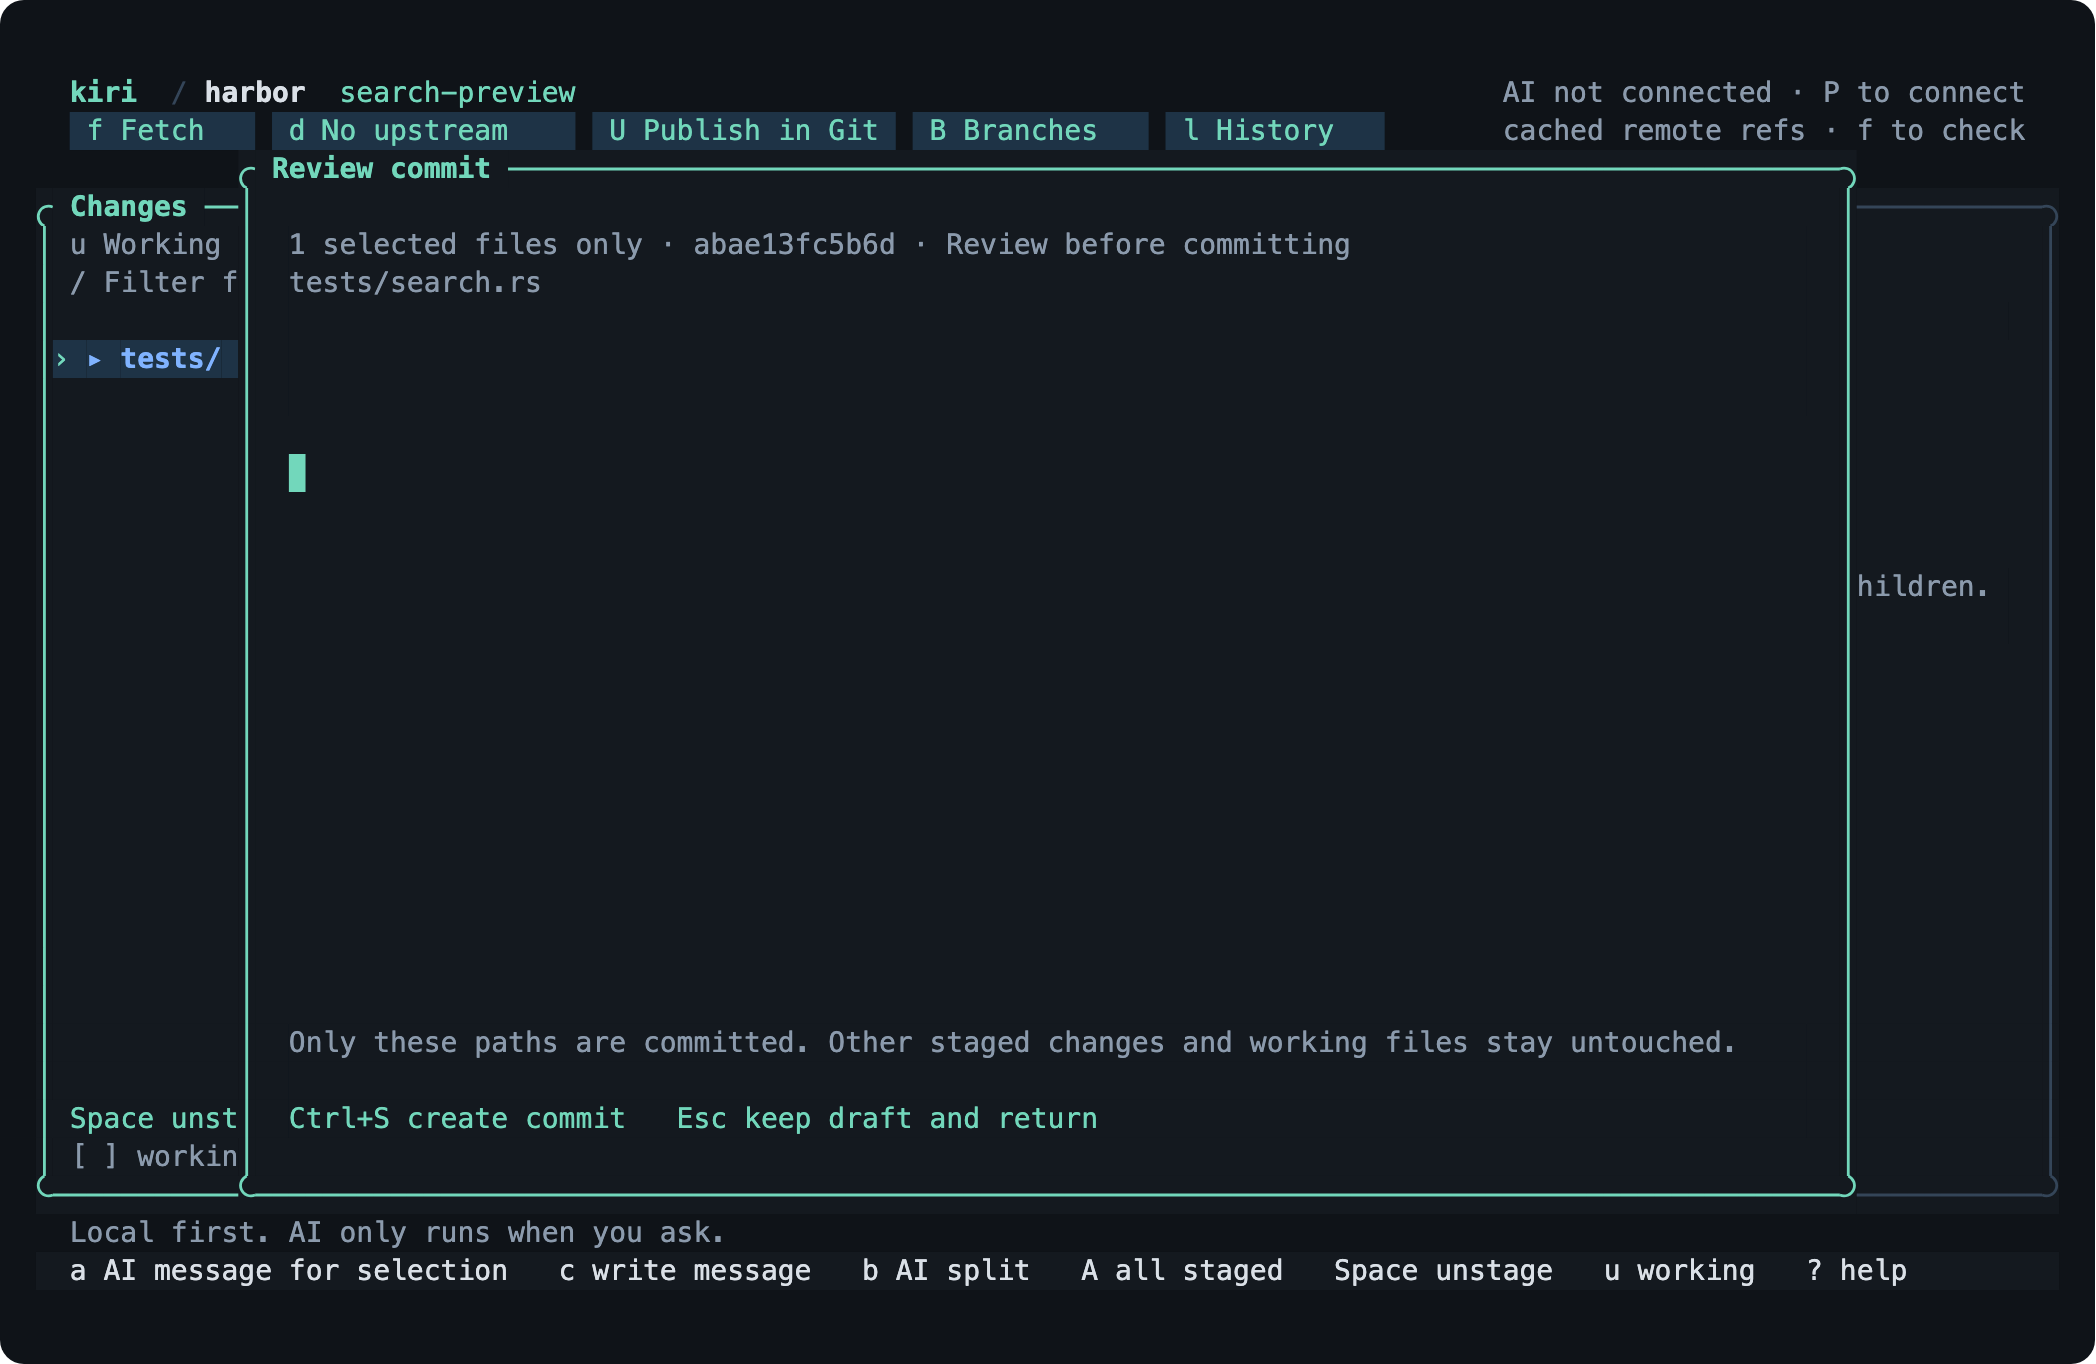
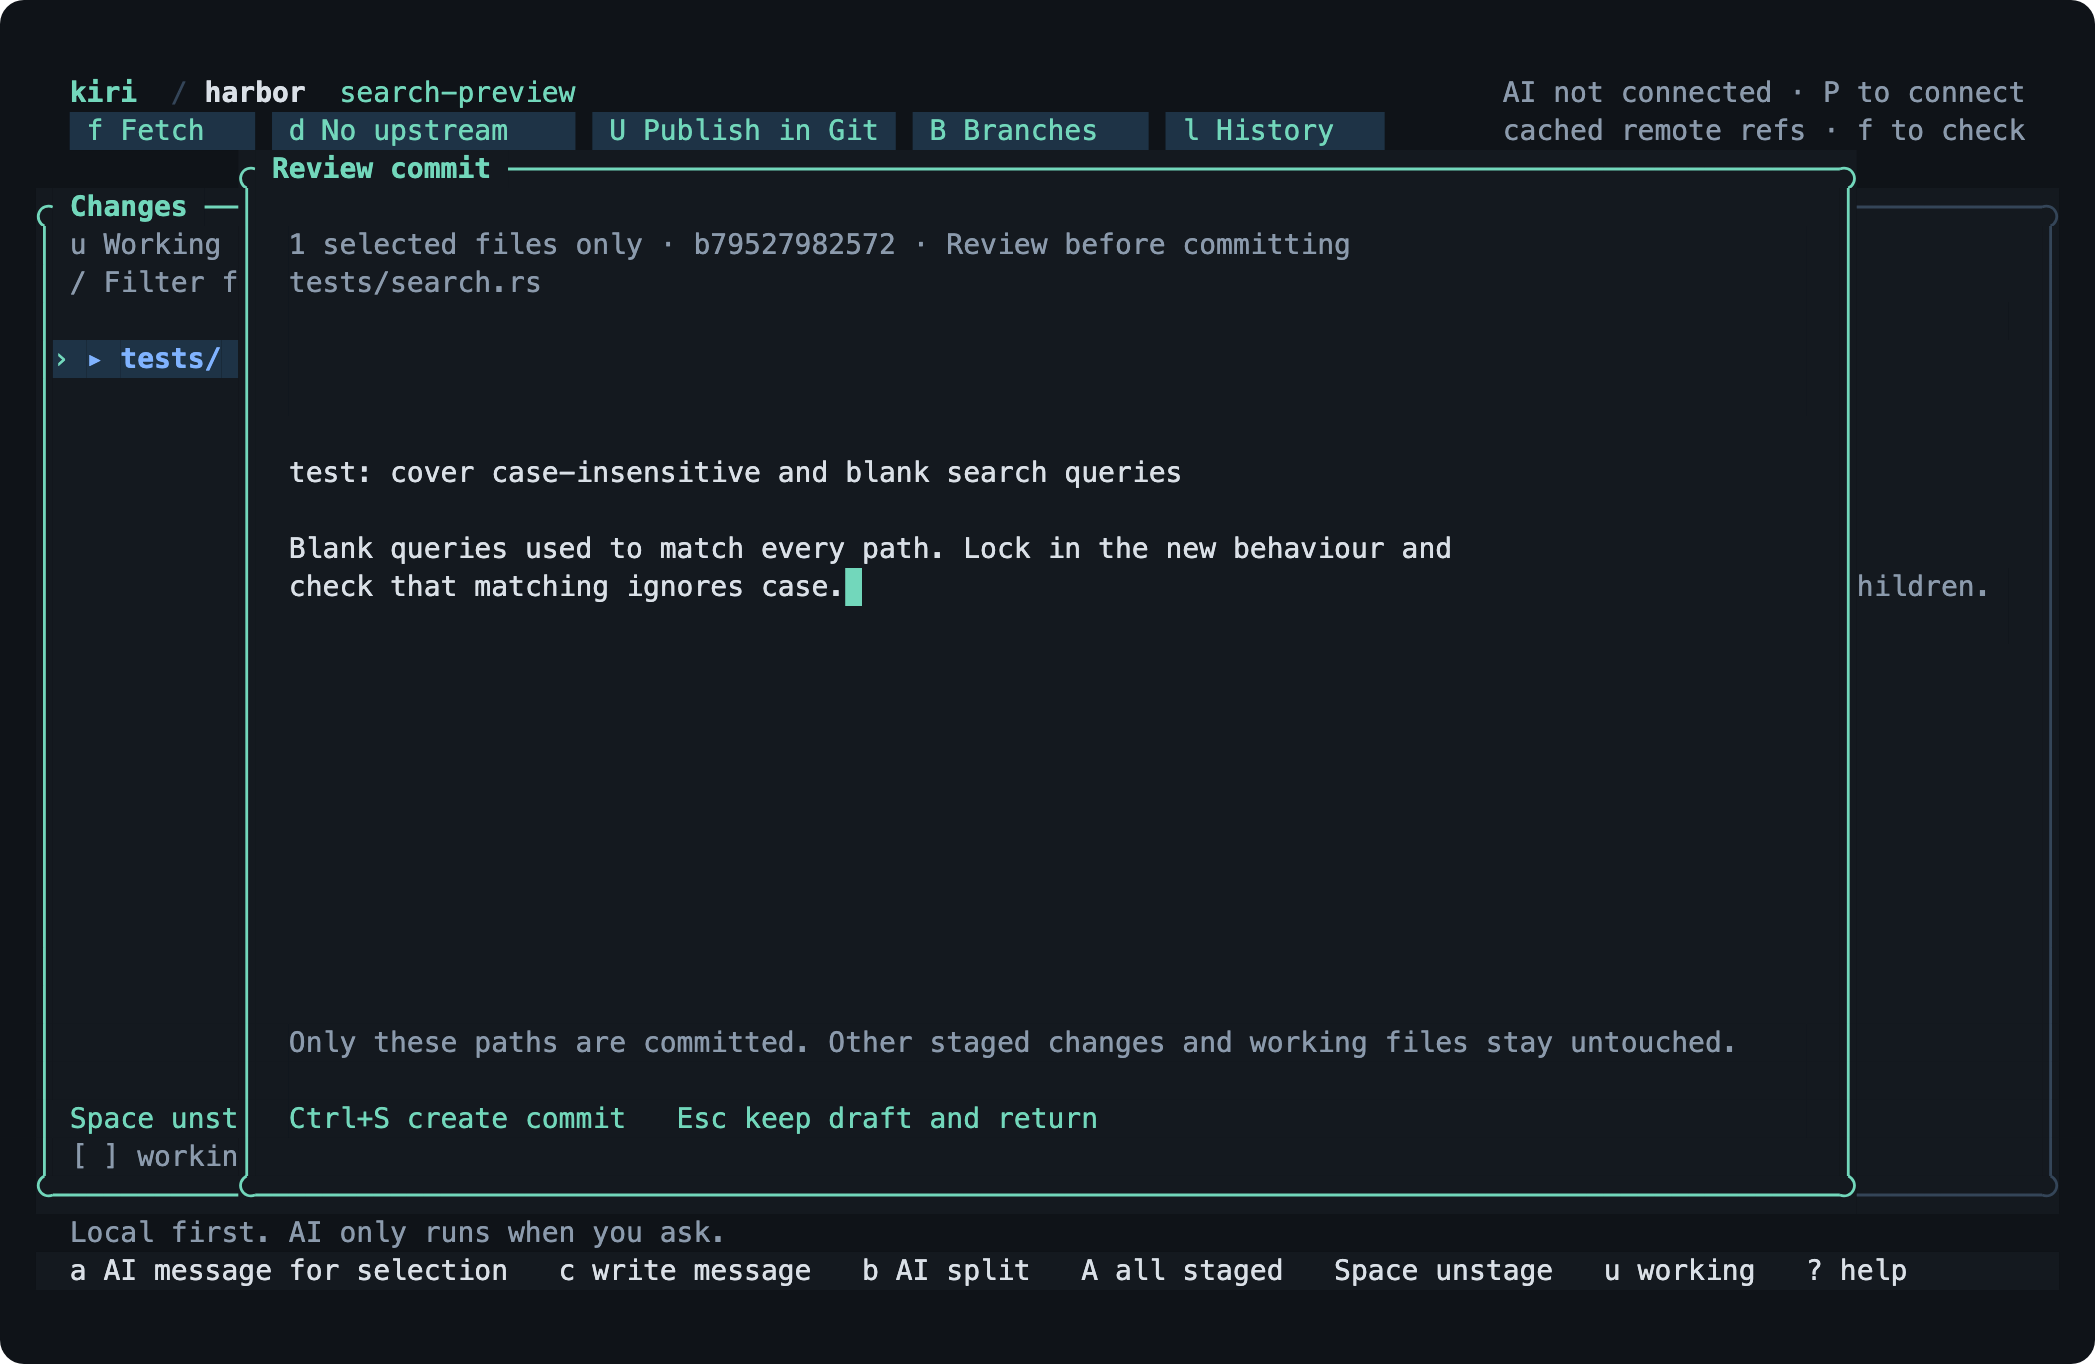
client: support statusSince and unchanged status responses
Add `since` parameter support to engine status command schema and
generated TypeScript definitions, returning an `unchanged` result
kind when the repository revision has not advanced. Include `head_oid`
and `index_oid` fields in `FileChange`, add `KiriRepository.statusSince`,
and update SDK integration tests and documentation.

diff --git a/packages/client/src/index.ts b/packages/client/src/index.ts
@@ -160,6 +160,12 @@ export class KiriRepository {
     if (reply.kind !== 'status') throw new KiriError('protocol', 'Expected status');
     return reply;
   }
+  /** Poll cheaply: when the engine still reports `since`, the reply carries no file list. */
+  async statusSince(since: number, fresh = true) {
+    const reply = await this.client.request({ method: 'status', repo: this.id, fresh, since });
+    if (reply.kind !== 'status' && reply.kind !== 'unchanged') throw new KiriError('protocol', 'Expected status');
+    return reply;
+  }
   async preview(path: number[], side: 'worktree' | 'staged', signal?: AbortSignal) {
     const reply = await this.client.request({ method: 'preview', repo: this.id, path, side, large: false }, signal);
     if (reply.kind !== 'preview') throw new KiriError('protocol', 'Expected preview');

diff --git a/packages/client/src/frame.ts b/packages/client/src/frame.ts
@@ -60,6 +60,11 @@ export type ResultValue =
       [k: string]: unknown;
     }
   | {
+      kind: 'unchanged';
+      revision: number;
+      [k: string]: unknown;
+    }
+  | {
       binary: boolean;
       kind: 'preview';
       notice?: string | null;
@@ -240,6 +245,14 @@ export interface RepoStatus {
   [k: string]: unknown;
 }
 export interface FileChange {
+  /**
+   * Blob recorded in HEAD for this path, when Git reported one.
+   */
+  head_oid?: string | null;
+  /**
+   * Blob recorded in the index for this path, when Git reported one.
+   */
+  index_oid?: string | null;
   original_path?: RepoPath | null;
   path: RepoPath;
   staged?: ChangeKind | null;

diff --git a/packages/client/src/request.ts b/packages/client/src/request.ts
@@ -16,6 +16,11 @@ export type Command =
       fresh: boolean;
       method: 'status';
       repo: number;
+      /**
+       * Revision the caller already holds. When the repository still reports that revision,
+       * the reply is `unchanged` instead of the full inventory.
+       */
+      since?: number | null;
     }
   | {
       large: boolean;

diff --git a/README.md b/README.md
@@ -5,13 +5,15 @@
   </picture>
 </p>
 
-<p align="center">A fast Git TUI. Syntax-highlighted diffs, folder staging, AI commit messages when you ask for them.</p>
+<p align="center">A Git TUI for people who read the diff before they commit.</p>
 
 <p align="center">
-  <img src="assets/screenshots/review.png" alt="Kiri reviewing a Rust diff in split view" width="960">
+  <img src="assets/screenshots/review.png" alt="Kiri showing a Rust diff in split view, with the changed-file tree on the left" width="960">
 </p>
 
-Kiri opens the changed-file list first and loads a diff only when you select it. Stage a file, a folder, or a hunk, review what is about to be committed, then commit. Git runs locally. A model is called only when you press a key that asks for one.
+Kiri is a terminal Git client written in Rust. It opens on the changed-file tree, syntax-highlights the diff you pick, and stages a file, a folder, or a single hunk. Commit messages are yours to write, or press one key and Kiri drafts one from the staged patch using your own Claude, OpenAI, Gemini, or xAI account. Nothing is sent anywhere until you ask.
+
+If you have used lazygit or gitui, the layout will feel familiar. The difference is the review flow: Kiri shows exactly which paths a commit will contain before it runs `git commit`.
 
 ## Install
 
@@ -29,32 +31,43 @@ kiri -C /path/to/repo
 
 | | |
 | --- | --- |
-| `j` `k` | Move through files and folders |
-| `Enter` | Expand or collapse a folder |
-| `Space` | Stage or unstage the selection |
-| `H` | Stage the selected hunk |
-| `s` `u` | Switch between staged and working changes |
+| `j` `k` | Move through files, folders, and diff rows |
+| `Enter` | Open a folder or diff. `Esc` goes back |
+| `Space` | Stage or unstage the file or folder |
+| `H` | Stage or unstage the selected hunk. `[` `]` jump between hunks |
+| `s` `u` | Show staged or working changes |
+| `/` | Fuzzy filter files and folders |
+| `v` | Split or unified diff |
 | `c` | Write a commit message |
-| `a` `A` | Draft a message with AI for the selection, or for everything staged |
+| `a` `A` | AI message for the selection, or for everything staged |
+| `b` | Ask AI to split the staged changes into several commits |
 | `Ctrl+S` | Create the reviewed commit |
+| `f` `d` `U` | Fetch, fast-forward pull, push |
+| `B` `l` | Branches, history |
 | `?` | Everything else |
 
-Mouse works too. Split and unified diffs, a fuzzy file filter, branches, history, fetch, fast-forward pull, and push are all built in.
+Mouse works too. `Ctrl+P` opens a command palette.
 
 <p align="center">
-  <img src="assets/screenshots/folder.png" alt="Folder staging summary" width="49%">
-  <img src="assets/screenshots/providers.png" alt="AI provider picker" width="49%">
+  <img src="assets/screenshots/folder.png" alt="Folder summary showing which files a staging action will touch" width="49%">
+  <img src="assets/screenshots/commit.png" alt="Commit review listing the exact paths that will be committed" width="49%">
 </p>
 
-## AI
+## AI only when you ask
 
-Press `P` and connect Gemini, Anthropic, OpenAI, xAI, Azure OpenAI, Bedrock, or a ChatGPT subscription. Keys stay on your machine. There is no Kiri account.
+Press `P` and connect Gemini, Anthropic, OpenAI, xAI, Azure OpenAI, Bedrock, or a ChatGPT subscription. API keys are stored on your machine. There is no Kiri account and no telemetry.
 
-Drafts are proposals. You can edit them, and nothing is committed until you press `Ctrl+S`. Before committing, Kiri checks that the index and branch still match what you reviewed, and normal Git hooks run. Large selections are chunked and summarized, but the full patch is always captured and the TUI asks before making a large batch of model calls.
+A draft is a proposal. Edit it, or throw it away. Before committing, Kiri checks that the index and branch still match what you reviewed, then runs the normal Git hooks. Big selections are summarized in chunks, and Kiri asks before making a large batch of model calls.
 
-`kiri plan` proposes several commits for a staged folder. Plans split at file boundaries, and applying one needs explicit approval.
+`b` in the TUI, or `kiri plan` from a shell, groups the staged changes into several commits split at file boundaries. Each commit is applied only after you approve it.
+
+<p align="center">
+  <img src="assets/screenshots/providers.png" alt="AI provider picker" width="720">
+</p>
 
 ## Scripting
+
+Every TUI action has a subcommand, most with `--json` output.
 
 ```sh
 kiri status --json
@@ -63,11 +76,11 @@ kiri draft src/ --json
 kiri plan --json
 ```
 
-`kiri --help` lists the rest, including provider setup and the read-only benchmark.
+`kiri --help` lists the rest, including provider setup and a read-only benchmark.
 
 ## Embedding
 
-The TUI is one client of a reusable engine. `kiri-engine` is a headless sidecar with a length-prefixed, schema-checked protocol, and [`packages/client`](packages/client) is a generated TypeScript client for it.
+The TUI is one client of a headless engine. `kiri-engine` speaks a length-prefixed, schema-checked protocol over stdio, and [`packages/client`](packages/client) is a generated TypeScript client for it.
 
 ```ts
 import { KiriClient } from '@kiri/client';
@@ -82,21 +95,14 @@ Build the engine with `make install-engine` and validate the client package with
 
 ## Speed
 
-Warm median time from launch to a visible patch, macOS ARM64, same repository and selection for each client:
-
-| Changed files | Kiri | GitUI 0.28 | Lumen 2.32 |
-| ---: | ---: | ---: | ---: |
-| 100 | 72 ms | 18 ms | 579 ms |
-| 5,000 | 226 ms | 143 ms | 6,589 ms |
-
-GitUI is faster. Most of Kiri's time on the large repository is Git's own index refresh. Samples and method are in [`benchmarks/local-baseline.json`](benchmarks/local-baseline.json); reproduce with `scripts/benchmark_clients.py`.
+Kiri loads the file list first and computes a diff only for the file you select, so a repository with thousands of changed files opens in a few hundred milliseconds. GitUI is still faster on the same machine. Numbers and method are in [`benchmarks/local-baseline.json`](benchmarks/local-baseline.json); reproduce them with `scripts/benchmark_clients.py`.
 
 ## Development
 
 ```sh
-make check   # fmt, clippy, tests
-make smoke   # drives the TUI in a real PTY
-python3 scripts/screenshots.py   # regenerates the images above
+make check                      # fmt, clippy, tests
+make smoke                      # drives the TUI in a real PTY
+python3 scripts/screenshots.py  # regenerates the images above
 ```
 
 Crates: `kiri-core` (Git), `kiri-analysis` (evidence graph and proposals), `kiri-ai` (providers), `kiri-service` (engine), `kiri-tui`, `kiri-cli`.

diff --git a/AGENTS.md b/AGENTS.md
@@ -17,7 +17,7 @@ Kiri is a Rust Git client with a Ratatui interface and non-interactive CLI.
 - `make check`: formatting, strict Clippy, and Rust workspace tests.
 - `make sdk-check`: build the headless sidecar, regenerate schema/types and drive the real Node → Rust → host-model → scoped-commit path in disposable repositories.
 - `cargo check -p kiri-core --no-default-features` and `cargo tree -p kiri-service --no-default-features`: verify headless dependency boundaries.
-- `scripts/benchmark_clients.py --kiri <release-binary> --lumen <release-binary> --gitui <release-binary>` compares real PTY inventory/patch visibility on identical disposable fixtures. Inspect saved screens and Git guards; never interpret missing patch markers as a performance win.
+- `scripts/benchmark_clients.py --kiri <release-binary> --gitui <release-binary> [--lumen <release-binary>]` compares real PTY inventory/patch visibility, keypress-to-patch navigation latency, and idle Git process counts on identical disposable fixtures. Inspect saved screens and Git guards; never interpret missing patch markers as a performance win. Re-run it before changing the README speed table.
 - `make build`: release binary at `target/release/kiri`. Requires Rust 1.93 or newer. Release builds strip symbols without changing the optimization level.
 - `make install` and `make install-engine`: source installation into `INSTALL_ROOT` (defaults to `~/.cargo`), executables under `bin/`. Verify installs in a fresh temporary prefix before changing a user's PATH or installed tools.
 - `cargo test -p kiri-cli --test commands hybrid_generated_folder_plan_inspects_sources_then_creates_exact_commits`: scripted-model hybrid inspection → generated folder plan → real CLI commits, including incomplete-plan rejection and unrelated-change preservation. This proves mechanics, not live-model semantic quality.
@@ -31,6 +31,12 @@ Kiri is a Rust Git client with a Ratatui interface and non-interactive CLI.
 
 - TUI repository mutations, including hunk staging, sync, branch switching and applying a commit series, go through RepositoryService. Manual draft capture joins that admission queue too. UI selection generations and presentation caches remain client-local; do not bypass the queue through repository() for writes.
 - No repository-wide patch or numstat on startup. Status first, selected-file diff second. All reads are bounded and cancellable.
+- Startup overlaps Git calls instead of chaining them: the tracked status starts from the unverified path while `rev-parse` and the monitor configuration run, and the untracked scan starts as soon as the root is known (`Service::open_with_inventory`). Porcelain paths are root-relative, so the pre-open status needs no root.
+- Reads are content-addressed. Status carries HEAD and index blob IDs per file; a status that is byte-equal to the cached one keeps its revision. Preview cache keys include those IDs plus one `lstat` stamp of the working file, so unchanged files never re-run Git across refreshes and edited files never serve stale text. Only mutations bump the revision unconditionally.
+- The TUI keeps built patch views by fingerprint and reuses their colors on refresh and revisit. After the selected patch is visible it prefetches the next two rows and the previous row into the shared cache; prefetch never runs during a job and is replaced on every selection.
+- The idle loop sleeps until input, a message, or the next refresh. Only animations and busy spinners wake it every 16 ms.
+- Git's builtin file system monitor is honored when `core.fsmonitor` is the boolean `true`. Hook-style monitors stay disabled because Kiri never runs commands named by repository configuration.
+- Engine status requests accept `since`; an unchanged revision replies `unchanged` without the file list. `open` warms the status cache in the background.
 - Git paths remain raw bytes. Display strings must never be fed back into Git as file identities. Disable pathspec magic and external diff/textconv execution.
 - Folder actions select exact descendant file indices from the tree, including collapsed descendants but respecting the active filter and staged/working tab. Resolve current eligibility with Git's tagged index/untracked inventory in bounded path batches: tracked updates use add --update, while new files use add without forcing ignored content. Ignore rules must not hide tracked edits or deletions; stale ignored untracked paths must not be added. Send mutation pathspecs as NUL-delimited stdin. Preserve unrelated index entries and all working files. Refresh observed status after failed jobs too: nonzero Git exits can follow partial index updates.
 - Compute tree structure and folder counts when inventory/filter changes, not during rendering. Expand the initial file's ancestors; unrelated folders begin collapsed.
